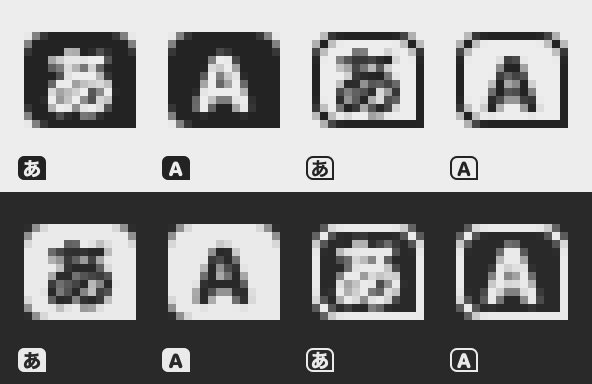
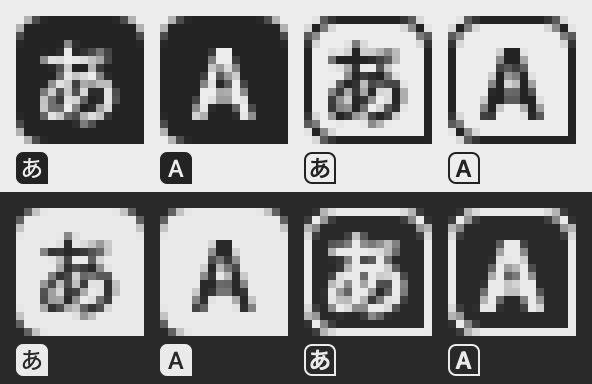
fix(macos): 入力ソースのアイコンを標準のアイコンと同じ大きさと字の細さにする (#167)

diff --git a/tools/icons/make_input_icons.swift b/tools/icons/make_input_icons.swift
@@ -17,11 +17,12 @@ let previewOutput = arguments.count >= 3 ? URL(fileURLWithPath: arguments[2], is
 
 /// 1 ドット = 1pt の 16pt 四方で描く
 let canvas: CGFloat = 16
-let body = NSRect(x: 1, y: 2, width: 14, height: 12)
-let radius: CGFloat = 3
-/// 字の大きさ．面の縁と字のあいだに余白をとるため，面(14×12)より小さめにする(利用者の指摘で 11 から下げた)
-let glyphSize: CGFloat = 9.5
-let latinSize: CGFloat = 10
+/// 面は 16pt 四方いっぱいにする(macOS の標準の入力ソースのアイコンと同じ大きさ．小さいと並べたときに見劣りする)
+let body = NSRect(x: 0, y: 0, width: 16, height: 16)
+let radius: CGFloat = 3.5
+/// 字の大きさ．標準のアイコンと同じく大きめで細い字にし，太い字で面を埋めない(字の周りに余白が見える)
+let glyphSize: CGFloat = 11.5
+let latinSize: CGFloat = 12
 
 enum Glyph {
     case hiragana
@@ -29,14 +30,13 @@ enum Glyph {
 
     var text: String { self == .hiragana ? "あ" : "A" }
 
-    /// 字の大きさと太さ．抜いた字が 16px でも潰れない太さにする
+    /// 字の大きさと太さ．標準のアイコンに近い細さにし，抜いた字が 16px でも切れない太さにする(ひらがなは W4，英字は medium)
     func font(filled: Bool) -> NSFont {
         switch self {
         case .hiragana:
-            return NSFont(name: filled ? "HiraginoSans-W7" : "HiraginoSans-W6", size: glyphSize) ?? .systemFont(ofSize: glyphSize, weight: .bold)
+            return NSFont(name: filled ? "HiraginoSans-W4" : "HiraginoSans-W5", size: glyphSize) ?? .systemFont(ofSize: glyphSize, weight: .regular)
         case .latin:
-            let base = NSFont.systemFont(ofSize: latinSize, weight: filled ? .heavy : .bold)
-            return base.fontDescriptor.withDesign(.rounded).flatMap { NSFont(descriptor: $0, size: latinSize) } ?? base
+            return NSFont.systemFont(ofSize: latinSize, weight: filled ? .medium : .semibold)
         }
     }
 }
